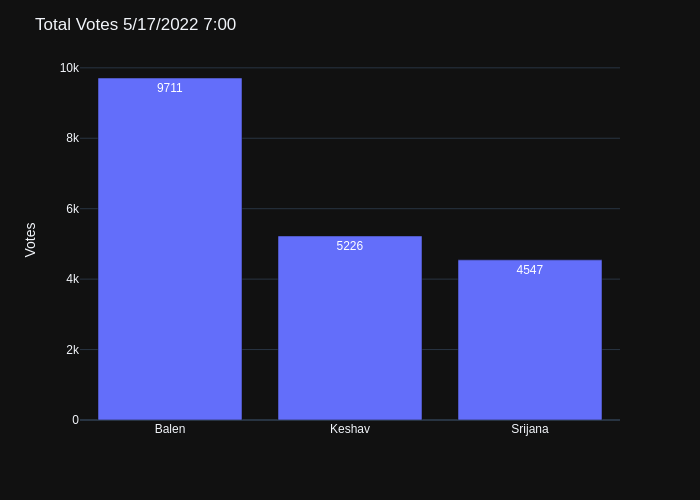
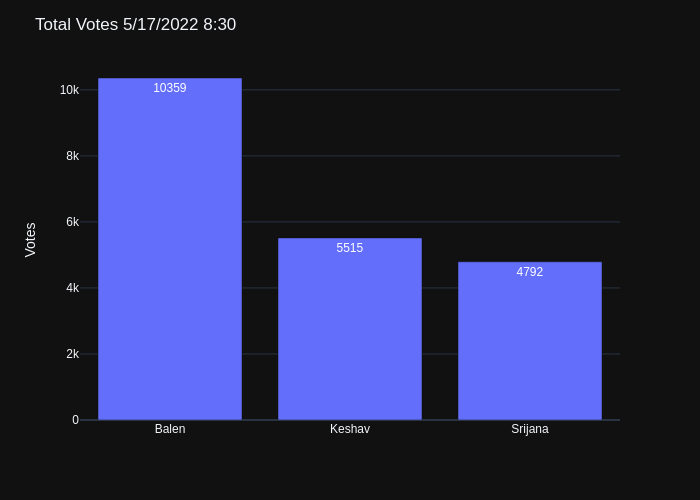
add data - 10k plus votes for balen

diff --git a/README.md b/README.md
@@ -1,4 +1,4 @@
-## Last Update: 5/17/2022 7:00
+## Last Update: 5/17/2022 8:30
 
 ## Balen's Lead against Keshav Sthapit and Srijana Singh
 ![ScreenShot](final.jpg)
